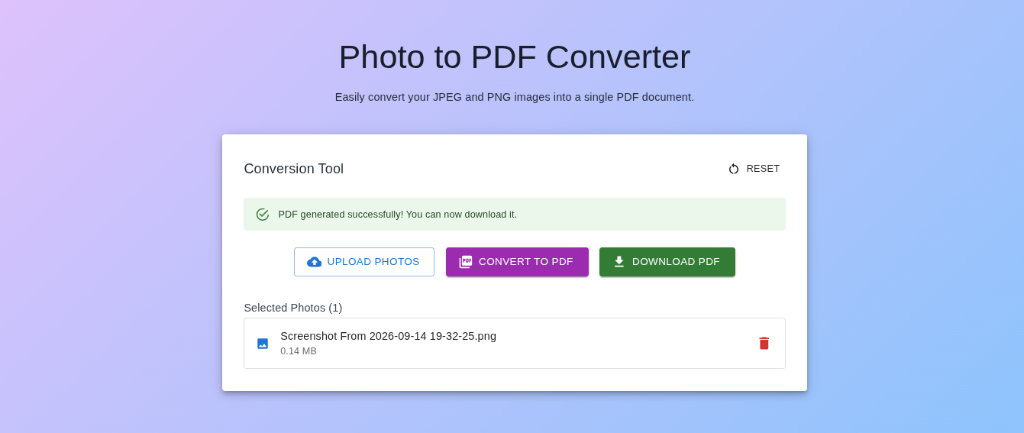
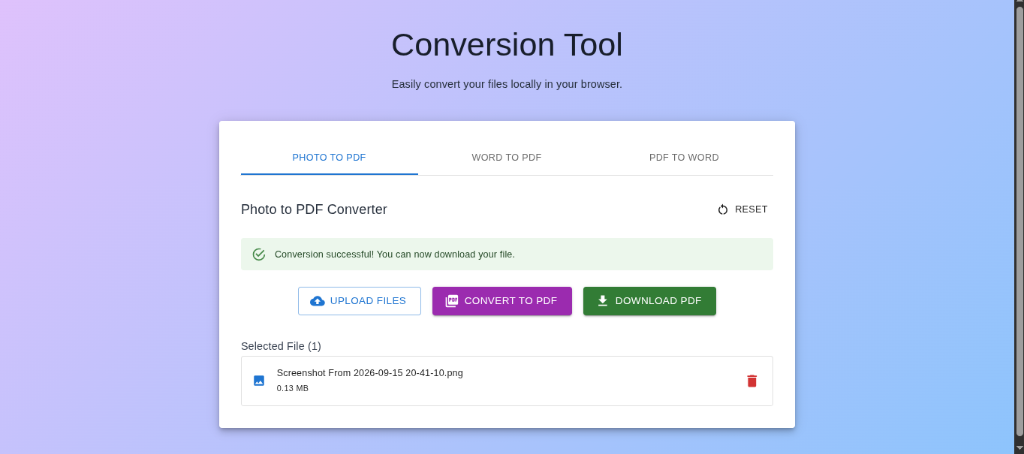
Update demo image and add live Vercel link to README

diff --git a/README.md b/README.md
@@ -2,7 +2,7 @@
 
 A fast, secure, and privacy-focused web application that allows users to convert files directly in their browser. Built with modern web technologies to ensure your sensitive documents never leave your device.
 
-**🌍 Live Demo:** [https://your-deployment-link-here.vercel.app](https://your-deployment-link-here.vercel.app)
+**🌍 Live Demo:** [https://conversion-tool-gray.vercel.app/](https://conversion-tool-gray.vercel.app/)
 
 ## 📸 Demo
 
